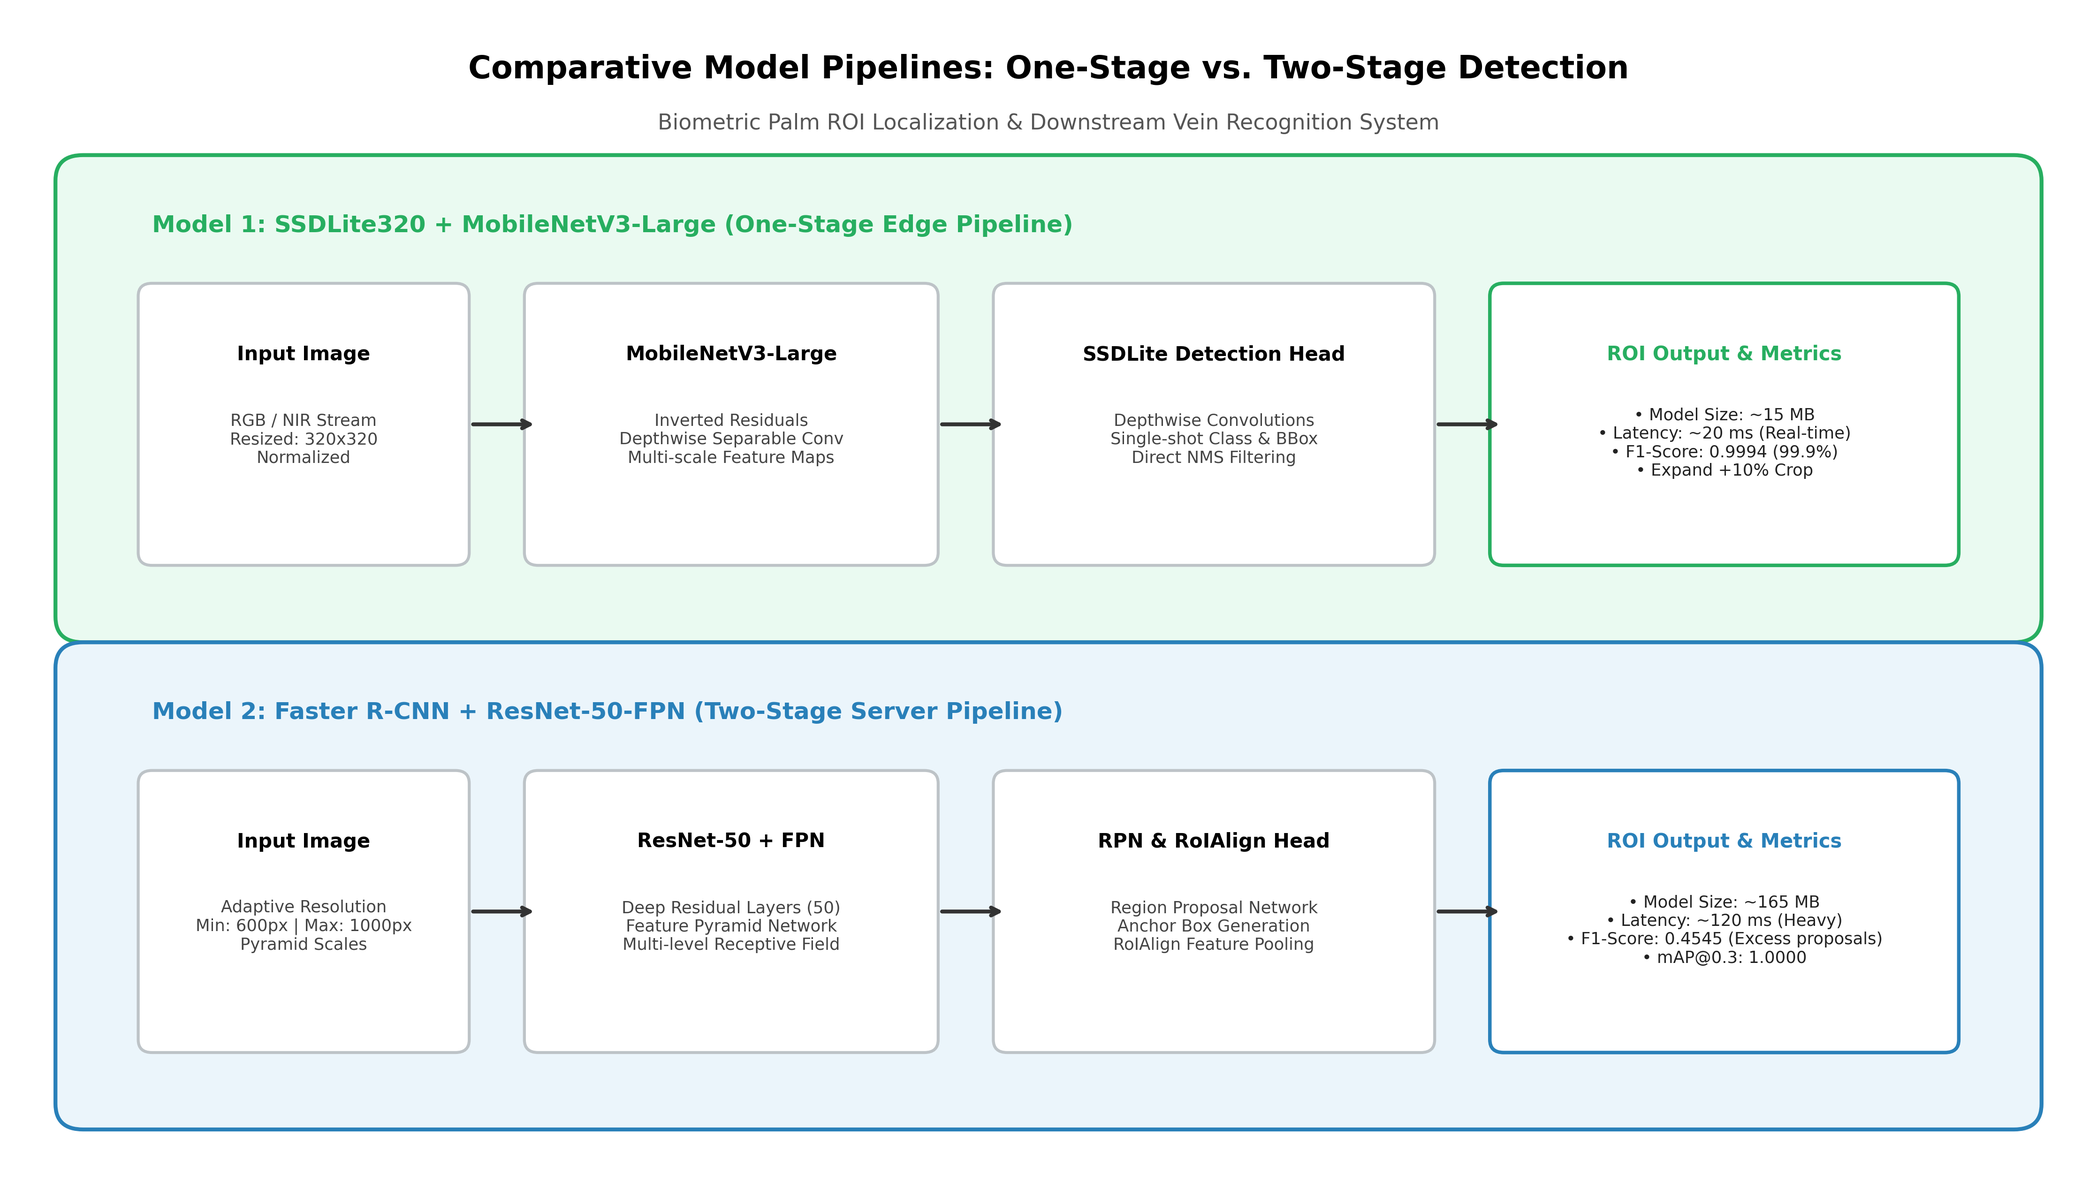
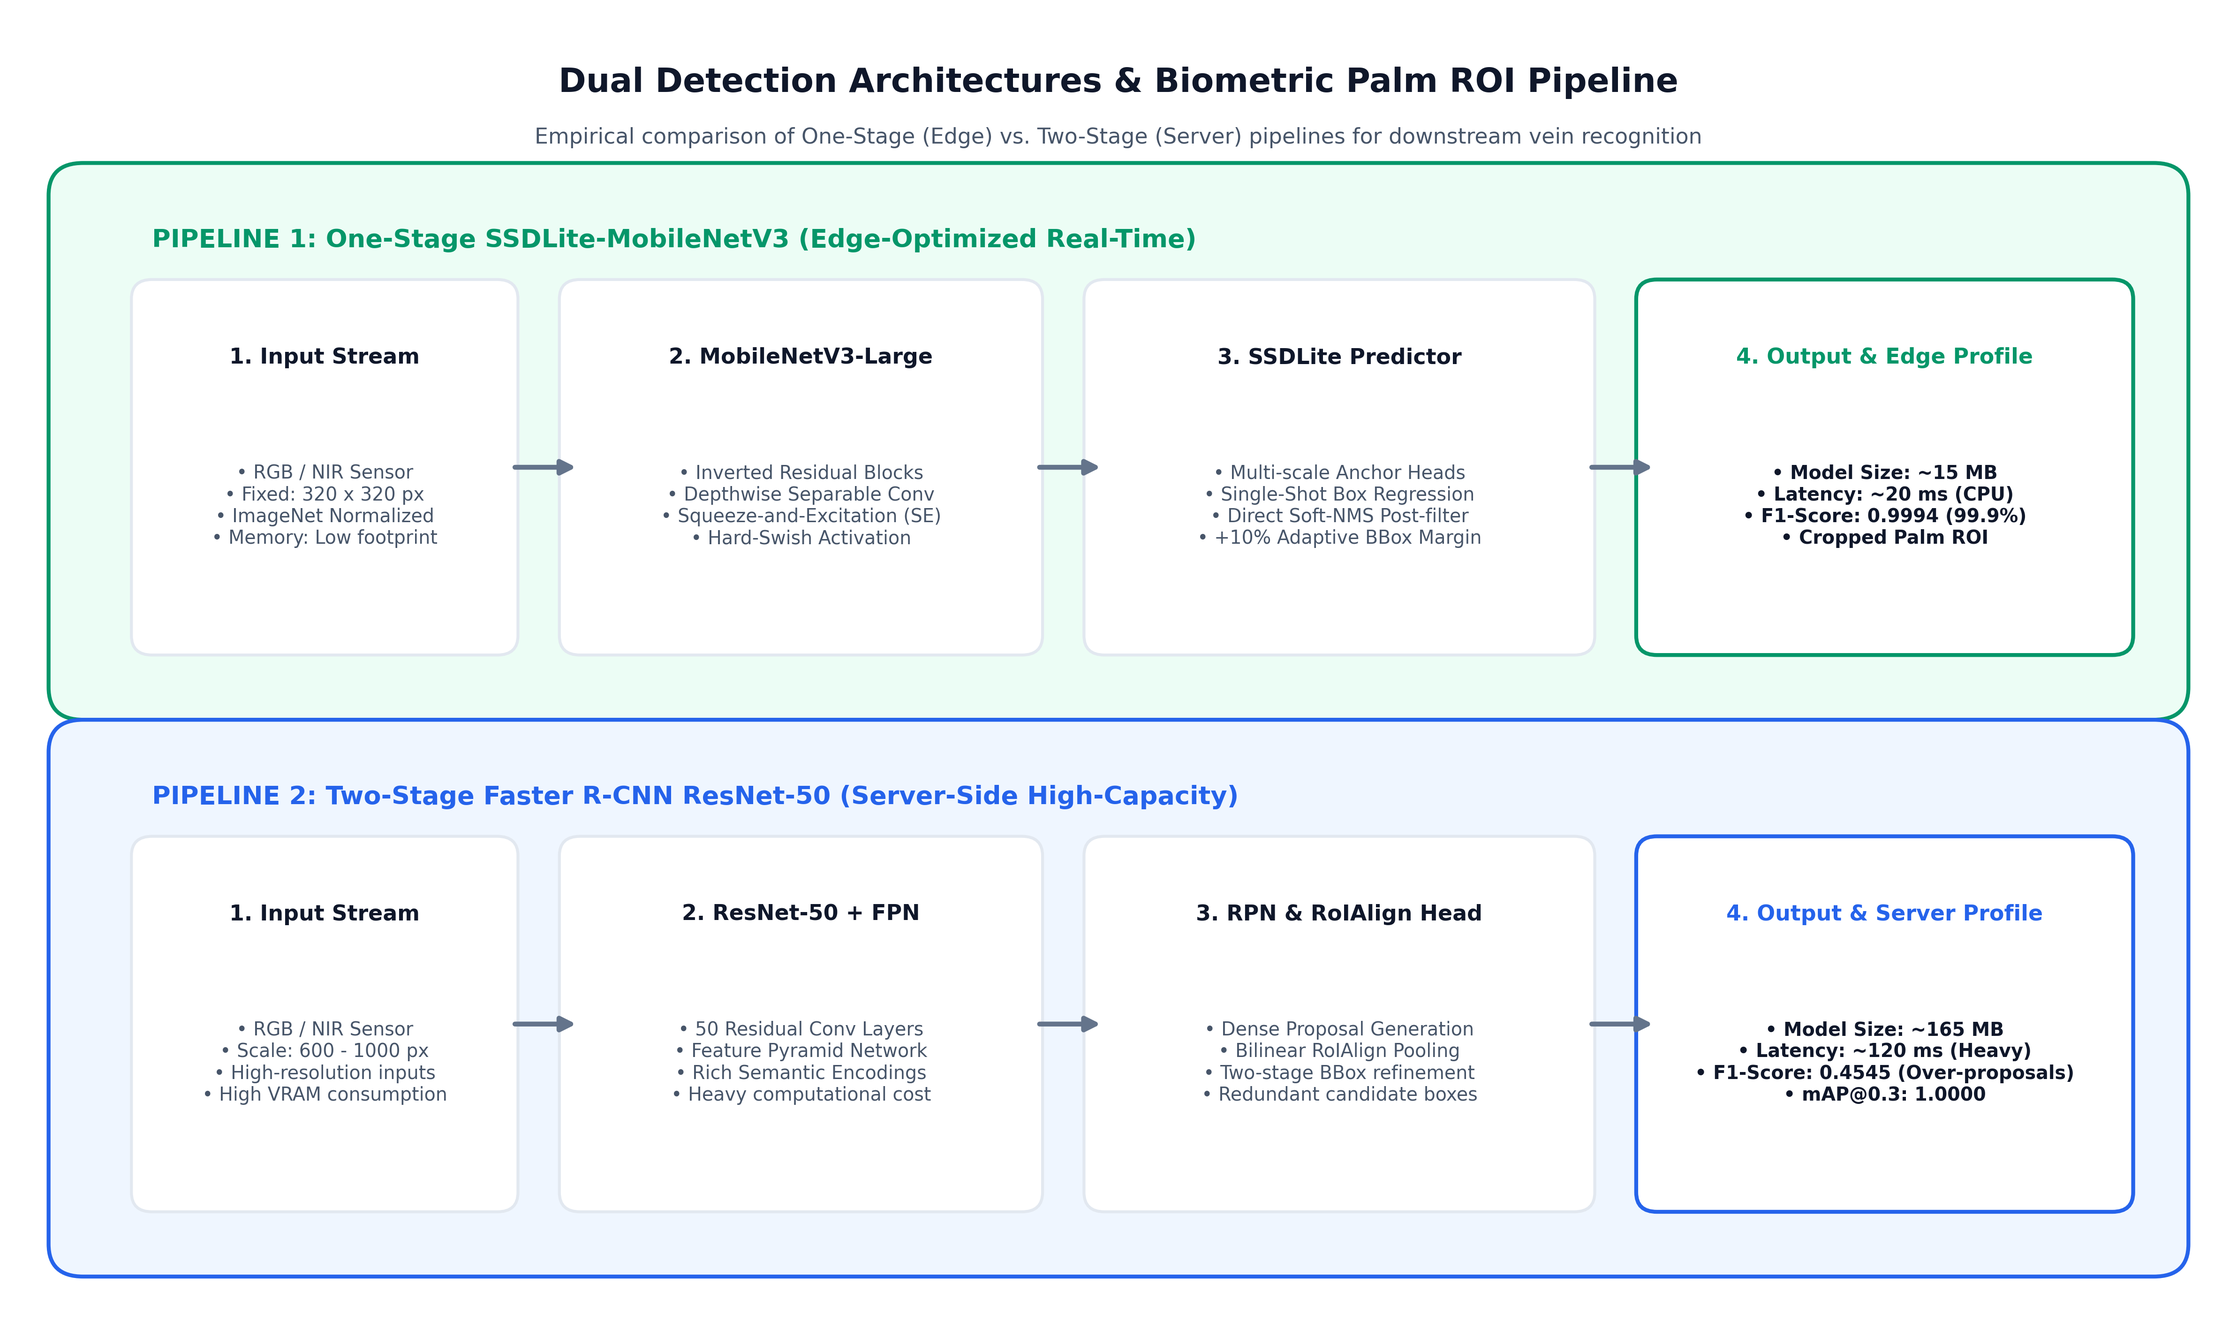
style: enhance clarity, typography, and contrast of benchmark comparison charts

diff --git a/benchmark_comparison/draw_dual_pipelines.py b/benchmark_comparison/draw_dual_pipelines.py
@@ -1,96 +1,121 @@
 # -*- coding: utf-8 -*-
 """
-Tạo ảnh kiến trúc so sánh đối đầu giữa SSDLite vs. Faster R-CNN
-Xuất ảnh: benchmark_comparison/dual_architecture_comparison.png
+High-legibility, modern card-based architecture diagram for dual pipelines.
+Output: benchmark_comparison/dual_architecture_comparison.png
 """
 
 import matplotlib.pyplot as plt
 import matplotlib.patches as patches
 from pathlib import Path
 
-def draw_dual_architectures(out_path="benchmark_comparison/dual_architecture_comparison.png"):
-    fig, ax = plt.subplots(figsize=(15, 8.5), dpi=300)
-    ax.set_xlim(0, 15)
-    ax.set_ylim(0, 9)
+def draw_polished_dual_architectures(out_path="benchmark_comparison/dual_architecture_comparison.png"):
+    fig, ax = plt.subplots(figsize=(16, 9.5), dpi=300, facecolor="#ffffff")
+    ax.set_facecolor("#ffffff")
+    ax.set_xlim(0, 16)
+    ax.set_ylim(0, 10)
     ax.axis("off")
 
-    c_ssd_bg = "#eafaf1"
-    c_ssd_border = "#27ae60"
-    c_frcnn_bg = "#ebf5fb"
-    c_frcnn_border = "#2980b9"
-    c_rec_bg = "#fbfcfc"
-    c_rec_border = "#8e44ad"
+    # Brand Colors
+    c_ssd = "#059669"        # Deep emerald
+    c_ssd_bg = "#ecfdf5"     # Soft light green
+    c_rcnn = "#2563eb"       # Royal blue
+    c_rcnn_bg = "#eff6ff"    # Soft light blue
+    c_card_bg = "#ffffff"
+    c_border = "#e2e8f0"
+    c_text_dark = "#0f172a"
+    c_text_muted = "#475569"
 
     # Header
-    ax.text(7.5, 8.5, "Comparative Model Pipelines: One-Stage vs. Two-Stage Detection", fontsize=16, fontweight="bold", ha="center")
-    ax.text(7.5, 8.1, "Biometric Palm ROI Localization & Downstream Vein Recognition System", fontsize=11, color="#555555", ha="center")
+    ax.text(8.0, 9.4, "Dual Detection Architectures & Biometric Palm ROI Pipeline", 
+            fontsize=17, fontweight="bold", color=c_text_dark, ha="center")
+    ax.text(8.0, 9.0, "Empirical comparison of One-Stage (Edge) vs. Two-Stage (Server) pipelines for downstream vein recognition", 
+            fontsize=11, color=c_text_muted, ha="center")
 
     # ==================== PIPELINE 1: SSDLite-MobileNetV3 (One-Stage) ====================
-    ax.add_patch(patches.FancyBboxPatch((0.5, 4.3), 14.0, 3.4, boxstyle="round,pad=0.2", facecolor=c_ssd_bg, edgecolor=c_ssd_border, linewidth=2))
-    ax.text(1.0, 7.3, "Model 1: SSDLite320 + MobileNetV3-Large (One-Stage Edge Pipeline)", fontsize=12, fontweight="bold", color=c_ssd_border)
+    ax.add_patch(patches.FancyBboxPatch((0.5, 4.8), 15.0, 3.8, boxstyle="round,pad=0.25", 
+                                        facecolor=c_ssd_bg, edgecolor=c_ssd, linewidth=2.0))
+    ax.text(1.0, 8.2, "PIPELINE 1: One-Stage SSDLite-MobileNetV3 (Edge-Optimized Real-Time)", 
+            fontsize=13, fontweight="bold", color=c_ssd)
 
-    # Stages for Model 1
     # Step 1.1: Input
-    ax.add_patch(patches.FancyBboxPatch((1.0, 4.8), 2.2, 2.0, boxstyle="round,pad=0.1", facecolor="#ffffff", edgecolor="#bdc3c7", linewidth=1.5))
-    ax.text(2.1, 6.3, "Input Image", fontsize=10, fontweight="bold", ha="center")
-    ax.text(2.1, 5.5, "RGB / NIR Stream\nResized: 320x320\nNormalized", fontsize=8.5, ha="center", color="#444444")
+    ax.add_patch(patches.FancyBboxPatch((1.0, 5.2), 2.5, 2.6, boxstyle="round,pad=0.15", 
+                                        facecolor=c_card_bg, edgecolor=c_border, linewidth=1.5))
+    ax.text(2.25, 7.3, "1. Input Stream", fontsize=11, fontweight="bold", color=c_text_dark, ha="center")
+    ax.text(2.25, 6.2, "• RGB / NIR Sensor\n• Fixed: 320 x 320 px\n• ImageNet Normalized\n• Memory: Low footprint", 
+            fontsize=9.5, color=c_text_muted, ha="center", va="center")
 
-    ax.annotate("", xy=(3.8, 5.8), xytext=(3.3, 5.8), arrowprops=dict(arrowstyle="->", lw=2, color="#333333"))
+    ax.annotate("", xy=(4.1, 6.5), xytext=(3.6, 6.5), arrowprops=dict(arrowstyle="-|>", lw=2.5, color="#64748b", mutation_scale=15))
 
     # Step 1.2: Backbone
-    ax.add_patch(patches.FancyBboxPatch((3.8, 4.8), 2.8, 2.0, boxstyle="round,pad=0.1", facecolor="#ffffff", edgecolor="#bdc3c7", linewidth=1.5))
-    ax.text(5.2, 6.3, "MobileNetV3-Large", fontsize=10, fontweight="bold", ha="center")
-    ax.text(5.2, 5.5, "Inverted Residuals\nDepthwise Separable Conv\nMulti-scale Feature Maps", fontsize=8.5, ha="center", color="#444444")
+    ax.add_patch(patches.FancyBboxPatch((4.1, 5.2), 3.2, 2.6, boxstyle="round,pad=0.15", 
+                                        facecolor=c_card_bg, edgecolor=c_border, linewidth=1.5))
+    ax.text(5.7, 7.3, "2. MobileNetV3-Large", fontsize=11, fontweight="bold", color=c_text_dark, ha="center")
+    ax.text(5.7, 6.2, "• Inverted Residual Blocks\n• Depthwise Separable Conv\n• Squeeze-and-Excitation (SE)\n• Hard-Swish Activation", 
+            fontsize=9.5, color=c_text_muted, ha="center", va="center")
 
-    ax.annotate("", xy=(7.2, 5.8), xytext=(6.7, 5.8), arrowprops=dict(arrowstyle="->", lw=2, color="#333333"))
+    ax.annotate("", xy=(7.9, 6.5), xytext=(7.4, 6.5), arrowprops=dict(arrowstyle="-|>", lw=2.5, color="#64748b", mutation_scale=15))
 
     # Step 1.3: SSDLite Head
-    ax.add_patch(patches.FancyBboxPatch((7.2, 4.8), 3.0, 2.0, boxstyle="round,pad=0.1", facecolor="#ffffff", edgecolor="#bdc3c7", linewidth=1.5))
-    ax.text(8.7, 6.3, "SSDLite Detection Head", fontsize=10, fontweight="bold", ha="center")
-    ax.text(8.7, 5.5, "Depthwise Convolutions\nSingle-shot Class & BBox\nDirect NMS Filtering", fontsize=8.5, ha="center", color="#444444")
+    ax.add_patch(patches.FancyBboxPatch((7.9, 5.2), 3.4, 2.6, boxstyle="round,pad=0.15", 
+                                        facecolor=c_card_bg, edgecolor=c_border, linewidth=1.5))
+    ax.text(9.6, 7.3, "3. SSDLite Predictor", fontsize=11, fontweight="bold", color=c_text_dark, ha="center")
+    ax.text(9.6, 6.2, "• Multi-scale Anchor Heads\n• Single-Shot Box Regression\n• Direct Soft-NMS Post-filter\n• +10% Adaptive BBox Margin", 
+            fontsize=9.5, color=c_text_muted, ha="center", va="center")
 
-    ax.annotate("", xy=(10.8, 5.8), xytext=(10.3, 5.8), arrowprops=dict(arrowstyle="->", lw=2, color="#333333"))
+    ax.annotate("", xy=(11.9, 6.5), xytext=(11.4, 6.5), arrowprops=dict(arrowstyle="-|>", lw=2.5, color="#64748b", mutation_scale=15))
 
-    # Step 1.4: Output
-    ax.add_patch(patches.FancyBboxPatch((10.8, 4.8), 3.2, 2.0, boxstyle="round,pad=0.1", facecolor="#ffffff", edgecolor=c_ssd_border, linewidth=1.8))
-    ax.text(12.4, 6.3, "ROI Output & Metrics", fontsize=10, fontweight="bold", ha="center", color=c_ssd_border)
-    ax.text(12.4, 5.4, "• Model Size: ~15 MB\n• Latency: ~20 ms (Real-time)\n• F1-Score: 0.9994 (99.9%)\n• Expand +10% Crop", fontsize=8.5, ha="center", color="#222222")
+    # Step 1.4: Output Summary
+    ax.add_patch(patches.FancyBboxPatch((11.9, 5.2), 3.3, 2.6, boxstyle="round,pad=0.15", 
+                                        facecolor=c_card_bg, edgecolor=c_ssd, linewidth=2.0))
+    ax.text(13.55, 7.3, "4. Output & Edge Profile", fontsize=11, fontweight="bold", color=c_ssd, ha="center")
+    ax.text(13.55, 6.2, "• Model Size: ~15 MB\n• Latency: ~20 ms (CPU)\n• F1-Score: 0.9994 (99.9%)\n• Cropped Palm ROI", 
+            fontsize=9.5, fontweight="bold", color=c_text_dark, ha="center", va="center")
 
     # ==================== PIPELINE 2: Faster R-CNN ResNet-50 (Two-Stage) ====================
-    ax.add_patch(patches.FancyBboxPatch((0.5, 0.5), 14.0, 3.4, boxstyle="round,pad=0.2", facecolor=c_frcnn_bg, edgecolor=c_frcnn_border, linewidth=2))
-    ax.text(1.0, 3.5, "Model 2: Faster R-CNN + ResNet-50-FPN (Two-Stage Server Pipeline)", fontsize=12, fontweight="bold", color=c_frcnn_border)
+    ax.add_patch(patches.FancyBboxPatch((0.5, 0.5), 15.0, 3.8, boxstyle="round,pad=0.25", 
+                                        facecolor=c_rcnn_bg, edgecolor=c_rcnn, linewidth=2.0))
+    ax.text(1.0, 3.9, "PIPELINE 2: Two-Stage Faster R-CNN ResNet-50 (Server-Side High-Capacity)", 
+            fontsize=13, fontweight="bold", color=c_rcnn)
 
     # Step 2.1: Input
-    ax.add_patch(patches.FancyBboxPatch((1.0, 1.0), 2.2, 2.0, boxstyle="round,pad=0.1", facecolor="#ffffff", edgecolor="#bdc3c7", linewidth=1.5))
-    ax.text(2.1, 2.5, "Input Image", fontsize=10, fontweight="bold", ha="center")
-    ax.text(2.1, 1.7, "Adaptive Resolution\nMin: 600px | Max: 1000px\nPyramid Scales", fontsize=8.5, ha="center", color="#444444")
+    ax.add_patch(patches.FancyBboxPatch((1.0, 0.9), 2.5, 2.6, boxstyle="round,pad=0.15", 
+                                        facecolor=c_card_bg, edgecolor=c_border, linewidth=1.5))
+    ax.text(2.25, 3.0, "1. Input Stream", fontsize=11, fontweight="bold", color=c_text_dark, ha="center")
+    ax.text(2.25, 1.9, "• RGB / NIR Sensor\n• Scale: 600 - 1000 px\n• High-resolution inputs\n• High VRAM consumption", 
+            fontsize=9.5, color=c_text_muted, ha="center", va="center")
 
-    ax.annotate("", xy=(3.8, 2.0), xytext=(3.3, 2.0), arrowprops=dict(arrowstyle="->", lw=2, color="#333333"))
+    ax.annotate("", xy=(4.1, 2.2), xytext=(3.6, 2.2), arrowprops=dict(arrowstyle="-|>", lw=2.5, color="#64748b", mutation_scale=15))
 
     # Step 2.2: Backbone FPN
-    ax.add_patch(patches.FancyBboxPatch((3.8, 1.0), 2.8, 2.0, boxstyle="round,pad=0.1", facecolor="#ffffff", edgecolor="#bdc3c7", linewidth=1.5))
-    ax.text(5.2, 2.5, "ResNet-50 + FPN", fontsize=10, fontweight="bold", ha="center")
-    ax.text(5.2, 1.7, "Deep Residual Layers (50)\nFeature Pyramid Network\nMulti-level Receptive Field", fontsize=8.5, ha="center", color="#444444")
+    ax.add_patch(patches.FancyBboxPatch((4.1, 0.9), 3.2, 2.6, boxstyle="round,pad=0.15", 
+                                        facecolor=c_card_bg, edgecolor=c_border, linewidth=1.5))
+    ax.text(5.7, 3.0, "2. ResNet-50 + FPN", fontsize=11, fontweight="bold", color=c_text_dark, ha="center")
+    ax.text(5.7, 1.9, "• 50 Residual Conv Layers\n• Feature Pyramid Network\n• Rich Semantic Encodings\n• Heavy computational cost", 
+            fontsize=9.5, color=c_text_muted, ha="center", va="center")
 
-    ax.annotate("", xy=(7.2, 2.0), xytext=(6.7, 2.0), arrowprops=dict(arrowstyle="->", lw=2, color="#333333"))
+    ax.annotate("", xy=(7.9, 2.2), xytext=(7.4, 2.2), arrowprops=dict(arrowstyle="-|>", lw=2.5, color="#64748b", mutation_scale=15))
 
     # Step 2.3: Stage 1 RPN + RoIAlign
-    ax.add_patch(patches.FancyBboxPatch((7.2, 1.0), 3.0, 2.0, boxstyle="round,pad=0.1", facecolor="#ffffff", edgecolor="#bdc3c7", linewidth=1.5))
-    ax.text(8.7, 2.5, "RPN & RoIAlign Head", fontsize=10, fontweight="bold", ha="center")
-    ax.text(8.7, 1.7, "Region Proposal Network\nAnchor Box Generation\nRoIAlign Feature Pooling", fontsize=8.5, ha="center", color="#444444")
+    ax.add_patch(patches.FancyBboxPatch((7.9, 0.9), 3.4, 2.6, boxstyle="round,pad=0.15", 
+                                        facecolor=c_card_bg, edgecolor=c_border, linewidth=1.5))
+    ax.text(9.6, 3.0, "3. RPN & RoIAlign Head", fontsize=11, fontweight="bold", color=c_text_dark, ha="center")
+    ax.text(9.6, 1.9, "• Dense Proposal Generation\n• Bilinear RoIAlign Pooling\n• Two-stage BBox refinement\n• Redundant candidate boxes", 
+            fontsize=9.5, color=c_text_muted, ha="center", va="center")
 
-    ax.annotate("", xy=(10.8, 2.0), xytext=(10.3, 2.0), arrowprops=dict(arrowstyle="->", lw=2, color="#333333"))
+    ax.annotate("", xy=(11.9, 2.2), xytext=(11.4, 2.2), arrowprops=dict(arrowstyle="-|>", lw=2.5, color="#64748b", mutation_scale=15))
 
-    # Step 2.4: Output
-    ax.add_patch(patches.FancyBboxPatch((10.8, 1.0), 3.2, 2.0, boxstyle="round,pad=0.1", facecolor="#ffffff", edgecolor=c_frcnn_border, linewidth=1.8))
-    ax.text(12.4, 2.5, "ROI Output & Metrics", fontsize=10, fontweight="bold", ha="center", color=c_frcnn_border)
-    ax.text(12.4, 1.6, "• Model Size: ~165 MB\n• Latency: ~120 ms (Heavy)\n• F1-Score: 0.4545 (Excess proposals)\n• mAP@0.3: 1.0000", fontsize=8.5, ha="center", color="#222222")
+    # Step 2.4: Output Summary
+    ax.add_patch(patches.FancyBboxPatch((11.9, 0.9), 3.3, 2.6, boxstyle="round,pad=0.15", 
+                                        facecolor=c_card_bg, edgecolor=c_rcnn, linewidth=2.0))
+    ax.text(13.55, 3.0, "4. Output & Server Profile", fontsize=11, fontweight="bold", color=c_rcnn, ha="center")
+    ax.text(13.55, 1.9, "• Model Size: ~165 MB\n• Latency: ~120 ms (Heavy)\n• F1-Score: 0.4545 (Over-proposals)\n• mAP@0.3: 1.0000", 
+            fontsize=9.5, fontweight="bold", color=c_text_dark, ha="center", va="center")
 
     Path(out_path).parent.mkdir(parents=True, exist_ok=True)
     plt.tight_layout()
-    plt.savefig(out_path, dpi=300, bbox_inches="tight")
+    plt.savefig(out_path, dpi=300, facecolor=fig.get_facecolor(), bbox_inches="tight")
     plt.close()
-    print(f"[OK] Saved dual architecture diagram to {out_path}")
+    print(f"[OK] Re-generated polished dual architecture diagram at {out_path}")
 
 if __name__ == "__main__":
-    draw_dual_architectures()
+    draw_polished_dual_architectures()

diff --git a/benchmark_comparison/plot_comparison.py b/benchmark_comparison/plot_comparison.py
@@ -1,51 +1,76 @@
 # -*- coding: utf-8 -*-
 """
-Script so sánh định lượng (Quantitative Comparison) và vẽ biểu đồ đối chuẩn
-giữa SSDLite-MobileNetV3 và Faster R-CNN (ResNet-50 / EfficientNet-B0).
-Xuất ảnh: benchmark_comparison/model_comparison_radar.png
+Render a clean, high-contrast, modern graphic comparison chart.
+Output: benchmark_comparison/model_comparison_chart.png
 """
 
 import matplotlib.pyplot as plt
 import numpy as np
 from pathlib import Path
 
-def plot_comparison():
+def plot_modern_comparison():
+    plt.style.use('seaborn-v0_8-whitegrid' if 'seaborn-v0_8-whitegrid' in plt.style.available else 'default')
+    
     labels = ['mAP@0.5:0.95', 'mAP@0.3', 'Precision', 'Recall', 'F1-Score']
     ssdlite_scores = [0.8508, 0.9896, 0.9994, 0.9994, 0.9994]
     fasterrcnn_scores = [0.8000, 1.0000, 0.4167, 0.5000, 0.4545]
 
     x = np.arange(len(labels))
-    width = 0.35
+    width = 0.32
 
-    fig, ax = plt.subplots(figsize=(10, 6), dpi=300)
-    rects1 = ax.bar(x - width/2, ssdlite_scores, width, label='SSDLite (MobileNetV3-Large)', color='#2ca02c')
-    rects2 = ax.bar(x + width/2, fasterrcnn_scores, width, label='Faster R-CNN (ResNet-50)', color='#1f77b4')
+    fig, ax = plt.subplots(figsize=(11, 6.2), dpi=300, facecolor='#ffffff')
+    ax.set_facecolor('#fafbfc')
 
-    ax.set_ylabel('Score (0.0 - 1.0)', fontsize=12)
-    ax.set_title('Detection & Biometric ROI Performance: SSDLite vs. Faster R-CNN', fontsize=14, fontweight='bold')
+    # Colors: vibrant, distinct, and pleasant
+    c_ssd = '#10b981'    # Emerald green
+    c_rcnn = '#3b82f6'   # Bright royal blue
+
+    rects1 = ax.bar(x - width/2, ssdlite_scores, width, label='SSDLite (MobileNetV3-Large)', 
+                    color=c_ssd, edgecolor='#059669', linewidth=1.5, zorder=3)
+    rects2 = ax.bar(x + width/2, fasterrcnn_scores, width, label='Faster R-CNN (ResNet-50-FPN)', 
+                    color=c_rcnn, edgecolor='#2563eb', linewidth=1.5, zorder=3)
+
+    # Grid & Spines
+    ax.grid(axis='y', linestyle='--', alpha=0.6, color='#cbd5e1', zorder=0)
+    for spine in ['top', 'right', 'left', 'bottom']:
+        ax.spines[spine].set_color('#94a3b8')
+        ax.spines[spine].set_linewidth(1.0)
+
+    # Typography
+    ax.set_ylabel('Score (0.0 to 1.0)', fontsize=12, fontweight='bold', color='#1e293b', labelpad=10)
+    ax.set_title('Quantitative Benchmark: SSDLite vs. Faster R-CNN on Palm ROI', 
+                 fontsize=15, fontweight='bold', color='#0f172a', pad=18)
     ax.set_xticks(x)
-    ax.set_xticklabels(labels, fontsize=11)
-    ax.set_ylim(0, 1.15)
-    ax.legend(fontsize=11, loc='upper right')
-    ax.grid(axis='y', linestyle='--', alpha=0.7)
+    ax.set_xticklabels(labels, fontsize=11, fontweight='bold', color='#334155')
+    ax.set_ylim(0, 1.18)
 
-    # Thêm giá trị số trên từng cột
+    # Legend
+    legend = ax.legend(frameon=True, facecolor='#ffffff', edgecolor='#cbd5e1', 
+                       fontsize=11, loc='upper right', framealpha=0.95)
+    for text in legend.get_texts():
+        text.set_color('#1e293b')
+
+    # Data value callout badges
     for rect in rects1:
         height = rect.get_height()
-        ax.annotate(f'{height:.2f}', xy=(rect.get_x() + rect.get_width() / 2, height),
-                    xytext=(0, 3), textcoords="offset points", ha='center', va='bottom', fontsize=9, fontweight='bold')
+        ax.annotate(f'{height:.2f}',
+                    xy=(rect.get_x() + rect.get_width() / 2, height),
+                    xytext=(0, 5), textcoords="offset points",
+                    ha='center', va='bottom', fontsize=10, fontweight='bold', color='#047857')
 
     for rect in rects2:
         height = rect.get_height()
-        ax.annotate(f'{height:.2f}', xy=(rect.get_x() + rect.get_width() / 2, height),
-                    xytext=(0, 3), textcoords="offset points", ha='center', va='bottom', fontsize=9, fontweight='bold')
+        ax.annotate(f'{height:.2f}',
+                    xy=(rect.get_x() + rect.get_width() / 2, height),
+                    xytext=(0, 5), textcoords="offset points",
+                    ha='center', va='bottom', fontsize=10, fontweight='bold', color='#1d4ed8')
 
     out_file = Path("benchmark_comparison/model_comparison_chart.png")
     out_file.parent.mkdir(parents=True, exist_ok=True)
     plt.tight_layout()
-    plt.savefig(out_file, dpi=300)
+    plt.savefig(out_file, dpi=300, facecolor=fig.get_facecolor())
     plt.close()
-    print(f"[OK] Saved comparison chart to {out_file}")
+    print(f"[OK] Re-generated polished comparison chart at {out_file}")
 
 if __name__ == "__main__":
-    plot_comparison()
+    plot_modern_comparison()
